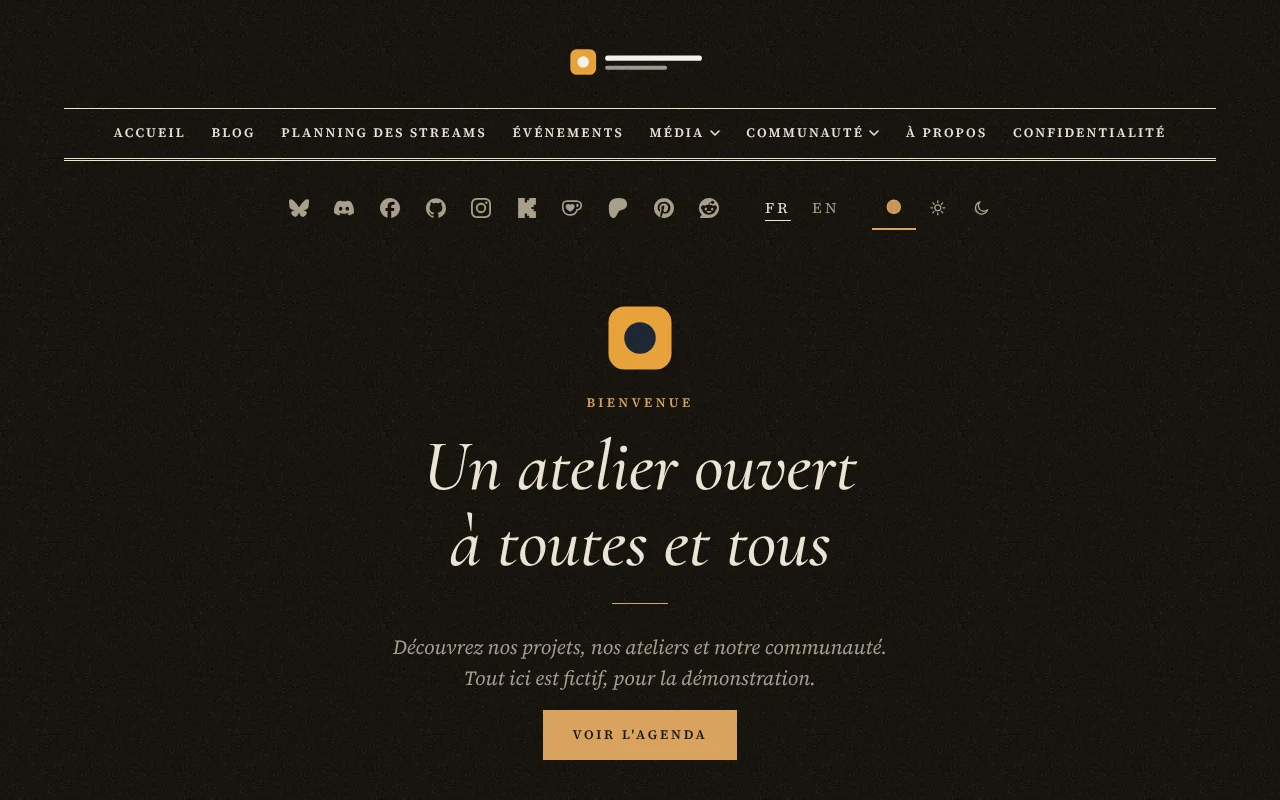
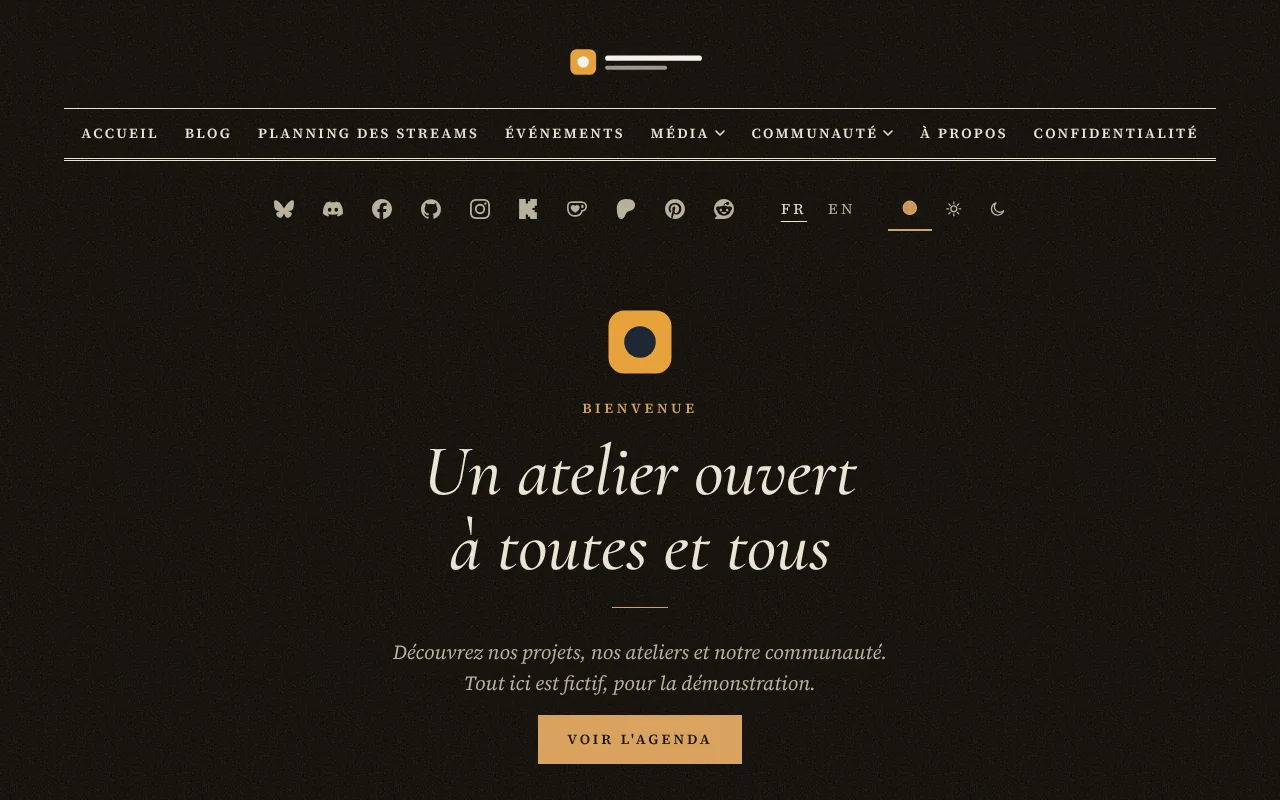
Skin : aperçus 1280x800 et 390x844 régénérés, menu mobile aligné à gauche, PROGRESS.md
Claude-Session: https://claude.ai/code/session_01ESirMuS3Ser2FpEY9j55tg

diff --git a/PROGRESS.md b/PROGRESS.md
@@ -1,13 +1,12 @@
 # PROGRESS (état du travail, à supprimer avant la fusion dans main)
 
 ## Fait
-- skin.json, tokens.json, skin.css, polices WOFF2 + licences, images, README, LICENSE : présents ; `skin:check --core-version 0.4.0` sans erreur (aperçus webp réels, < 150 Ko).
-- Installation réelle par le service du cœur depuis un dépôt git local jetable : OK.
-- Preuve de contenu identique (textes, liens, images, titres, focalisables, tabulation) sur 13 pages x 4 largeurs x 2 modes : seul écart = ligne « Clair ou sombre » ajoutée par le cœur à /privacy et boutons de bascule (ajoutés par le cœur, pas par le skin).
-- Captures 12 pages x 4 largeurs x 2 modes : faites pour editorial-papier (sk-shots/final-ed) ; verre-doux : accueil/blog/article seulement (sk-shots/vd2).
+- `npm run skin:check -- skins/<id> --visual --strict --core-version 0.4.0` sans erreur ni avertissement (cœur feat/skins-int2 09710c8).
+- Boîtes intérieures des modules restylées par `module-html` ; texte des cartes aligné par `card-body` ; panneau d'appel à l'action lisible ; cibles 44 px.
+- Installation réelle par le service du cœur, preuve de contenu identique (seul écart : ligne « Clair ou sombre » de /privacy ajoutée par le cœur), menu mobile et bascule de mode vérifiés, captures 12 pages x 4 largeurs x 2 modes, aperçus 1280x800 et 390x844.
 
 ## Reste
-- Rien d'obligatoire. Les aperçus webp sont maintenant de vraies captures. À refaire si le skin change. Supprimer ce fichier avant la fusion dans main.
+- Rien d'obligatoire. Supprimer ce fichier avant la fusion dans main.
 
 ## Commandes (outils dans /tmp/claude-0/-home-user/4e3492ee-8e17-57de-8380-ae93be24b42a/scratchpad/sk-tools/)
 - Cœur : /dev/shm/sk-core (branche feat/skins-int, construit) ; instantané : /dev/shm/sk-visual/snapshot (`VISUAL_ROOT=/dev/shm/sk-visual npm run visual:prepare`).
